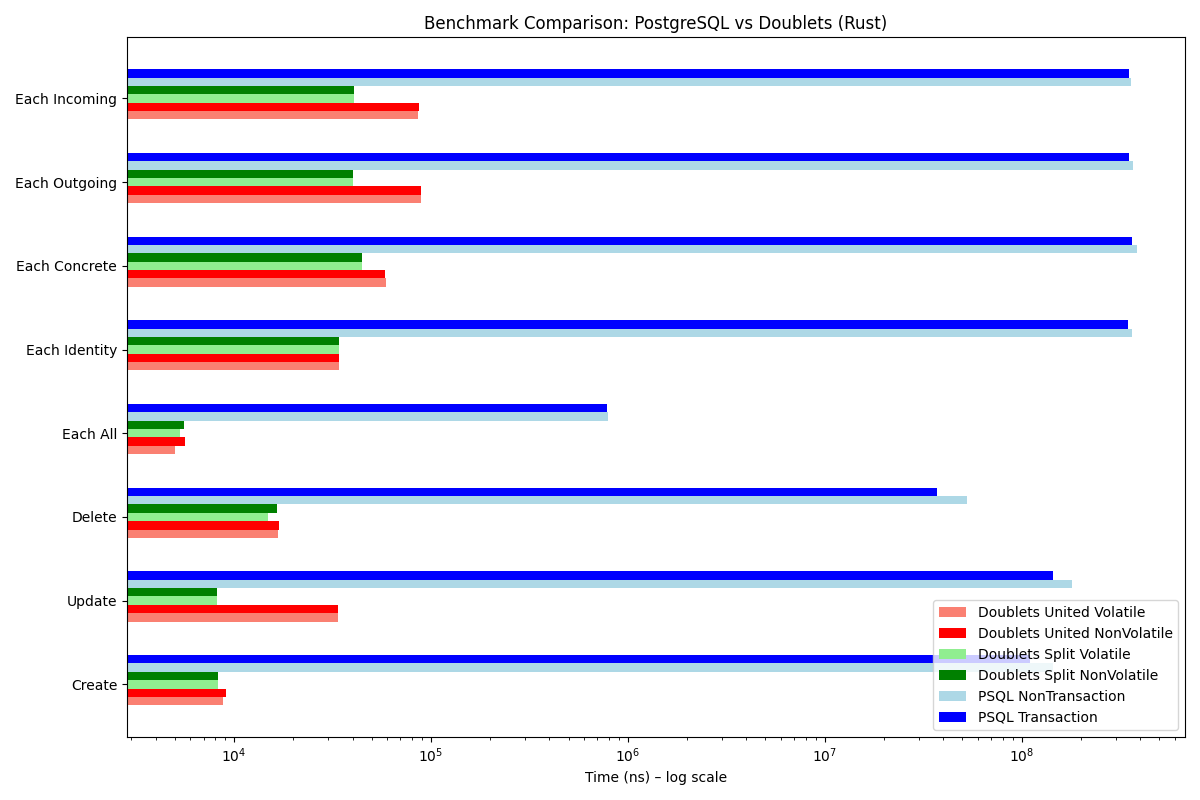
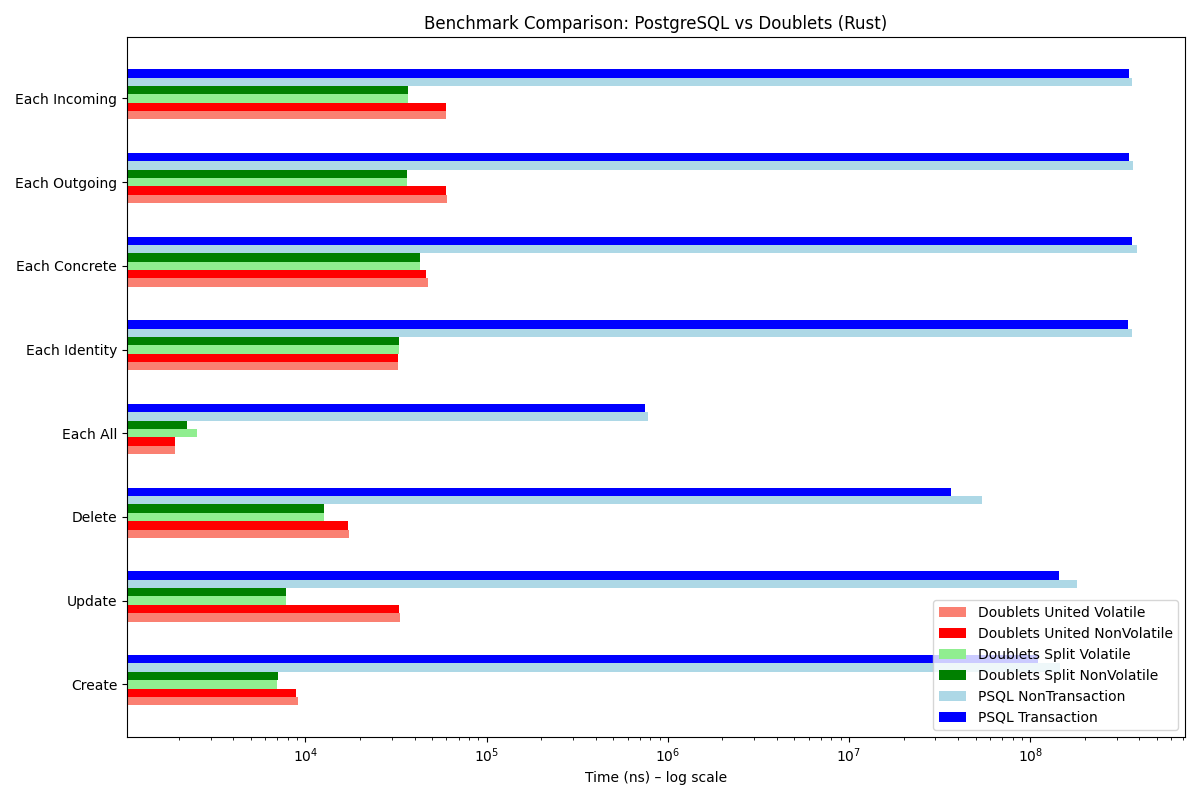
Update benchmark results

diff --git a/README.md b/README.md
@@ -32,14 +32,14 @@ The results below represent the amount of time (ns) the operation takes per iter
 
 | Operation     | Doublets United Volatile | Doublets United NonVolatile | Doublets Split Volatile | Doublets Split NonVolatile | PSQL NonTransaction | PSQL Transaction |
 |---------------|--------------------------|-----------------------------|-------------------------|----------------------------|---------------------|------------------|
-| Create        | 8780 (12614.9x faster)   | 9125 (12137.9x faster)      | 8296 (13350.9x faster)  | 8270 (13392.8x faster)     | 144051115           | 110758727        |
-| Update        | 33773 (4264.4x faster)   | 33670 (4277.4x faster)      | 8208 (17546.3x faster)  | 8236 (17486.7x faster)     | 179650014           | 144020140        |
-| Delete        | 16799 (2200.1x faster)   | 17008 (2173.1x faster)      | 14901 (2480.4x faster)  | 16508 (2238.9x faster)     | 52939761            | 36960301         |
-| Each All      | 5012 (156.4x faster)     | 5627 (139.3x faster)        | 5307 (147.7x faster)    | 5589 (140.2x faster)       | 795313              | 783693           |
-| Each Identity | 34225 (10100.2x faster)  | 34243 (10094.9x faster)     | 34256 (10091.1x faster) | 34245 (10094.3x faster)    | 364256566           | 345680880        |
-| Each Concrete | 58809 (6206.2x faster)   | 58118 (6279.9x faster)      | 44626 (8178.6x faster)  | 44674 (8169.8x faster)     | 384697270           | 364978052        |
-| Each Outgoing | 89110 (3918.3x faster)   | 89121 (3917.9x faster)      | 40241 (8676.8x faster)  | 40243 (8676.4x faster)     | 368437596           | 349163623        |
-| Each Incoming | 86241 (4053.8x faster)   | 86548 (4039.5x faster)      | 40536 (8624.6x faster)  | 40889 (8550.1x faster)     | 360478187           | 349606577        |
+| Create        | 9035 (12162.4x faster)   | 8807 (12477.2x faster)      | 7005 (15686.9x faster)  | 7086 (15507.6x faster)     | 145975967           | 109886881        |
+| Update        | 33210 (4323.7x faster)   | 32724 (4387.9x faster)      | 7826 (18347.9x faster)  | 7756 (18513.5x faster)     | 181785688           | 143590948        |
+| Delete        | 17427 (2096.8x faster)   | 17237 (2119.9x faster)      | 12612 (2897.4x faster)  | 12659 (2886.6x faster)     | 54113187            | 36541411         |
+| Each All      | 1903 (394.1x faster)     | 1903 (394.1x faster)        | 2520 (297.6x faster)    | 2220 (337.8x faster)       | 772260              | 750025           |
+| Each Identity | 32364 (10720.2x faster)  | 32376 (10716.2x faster)     | 32675 (10618.2x faster) | 32678 (10617.2x faster)    | 365907001           | 346948519        |
+| Each Concrete | 47228 (7710.2x faster)   | 46435 (7841.9x faster)      | 42978 (8472.6x faster)  | 43041 (8460.2x faster)     | 388005509           | 364137549        |
+| Each Outgoing | 60270 (5830.3x faster)   | 59978 (5858.7x faster)      | 36132 (9725.2x faster)  | 36206 (9705.3x faster)     | 369609106           | 351390605        |
+| Each Incoming | 59812 (5849.0x faster)   | 59956 (5835.0x faster)      | 36733 (9523.9x faster)  | 36753 (9518.7x faster)     | 362811363           | 349842592        |
 
 ## Conclusion
 